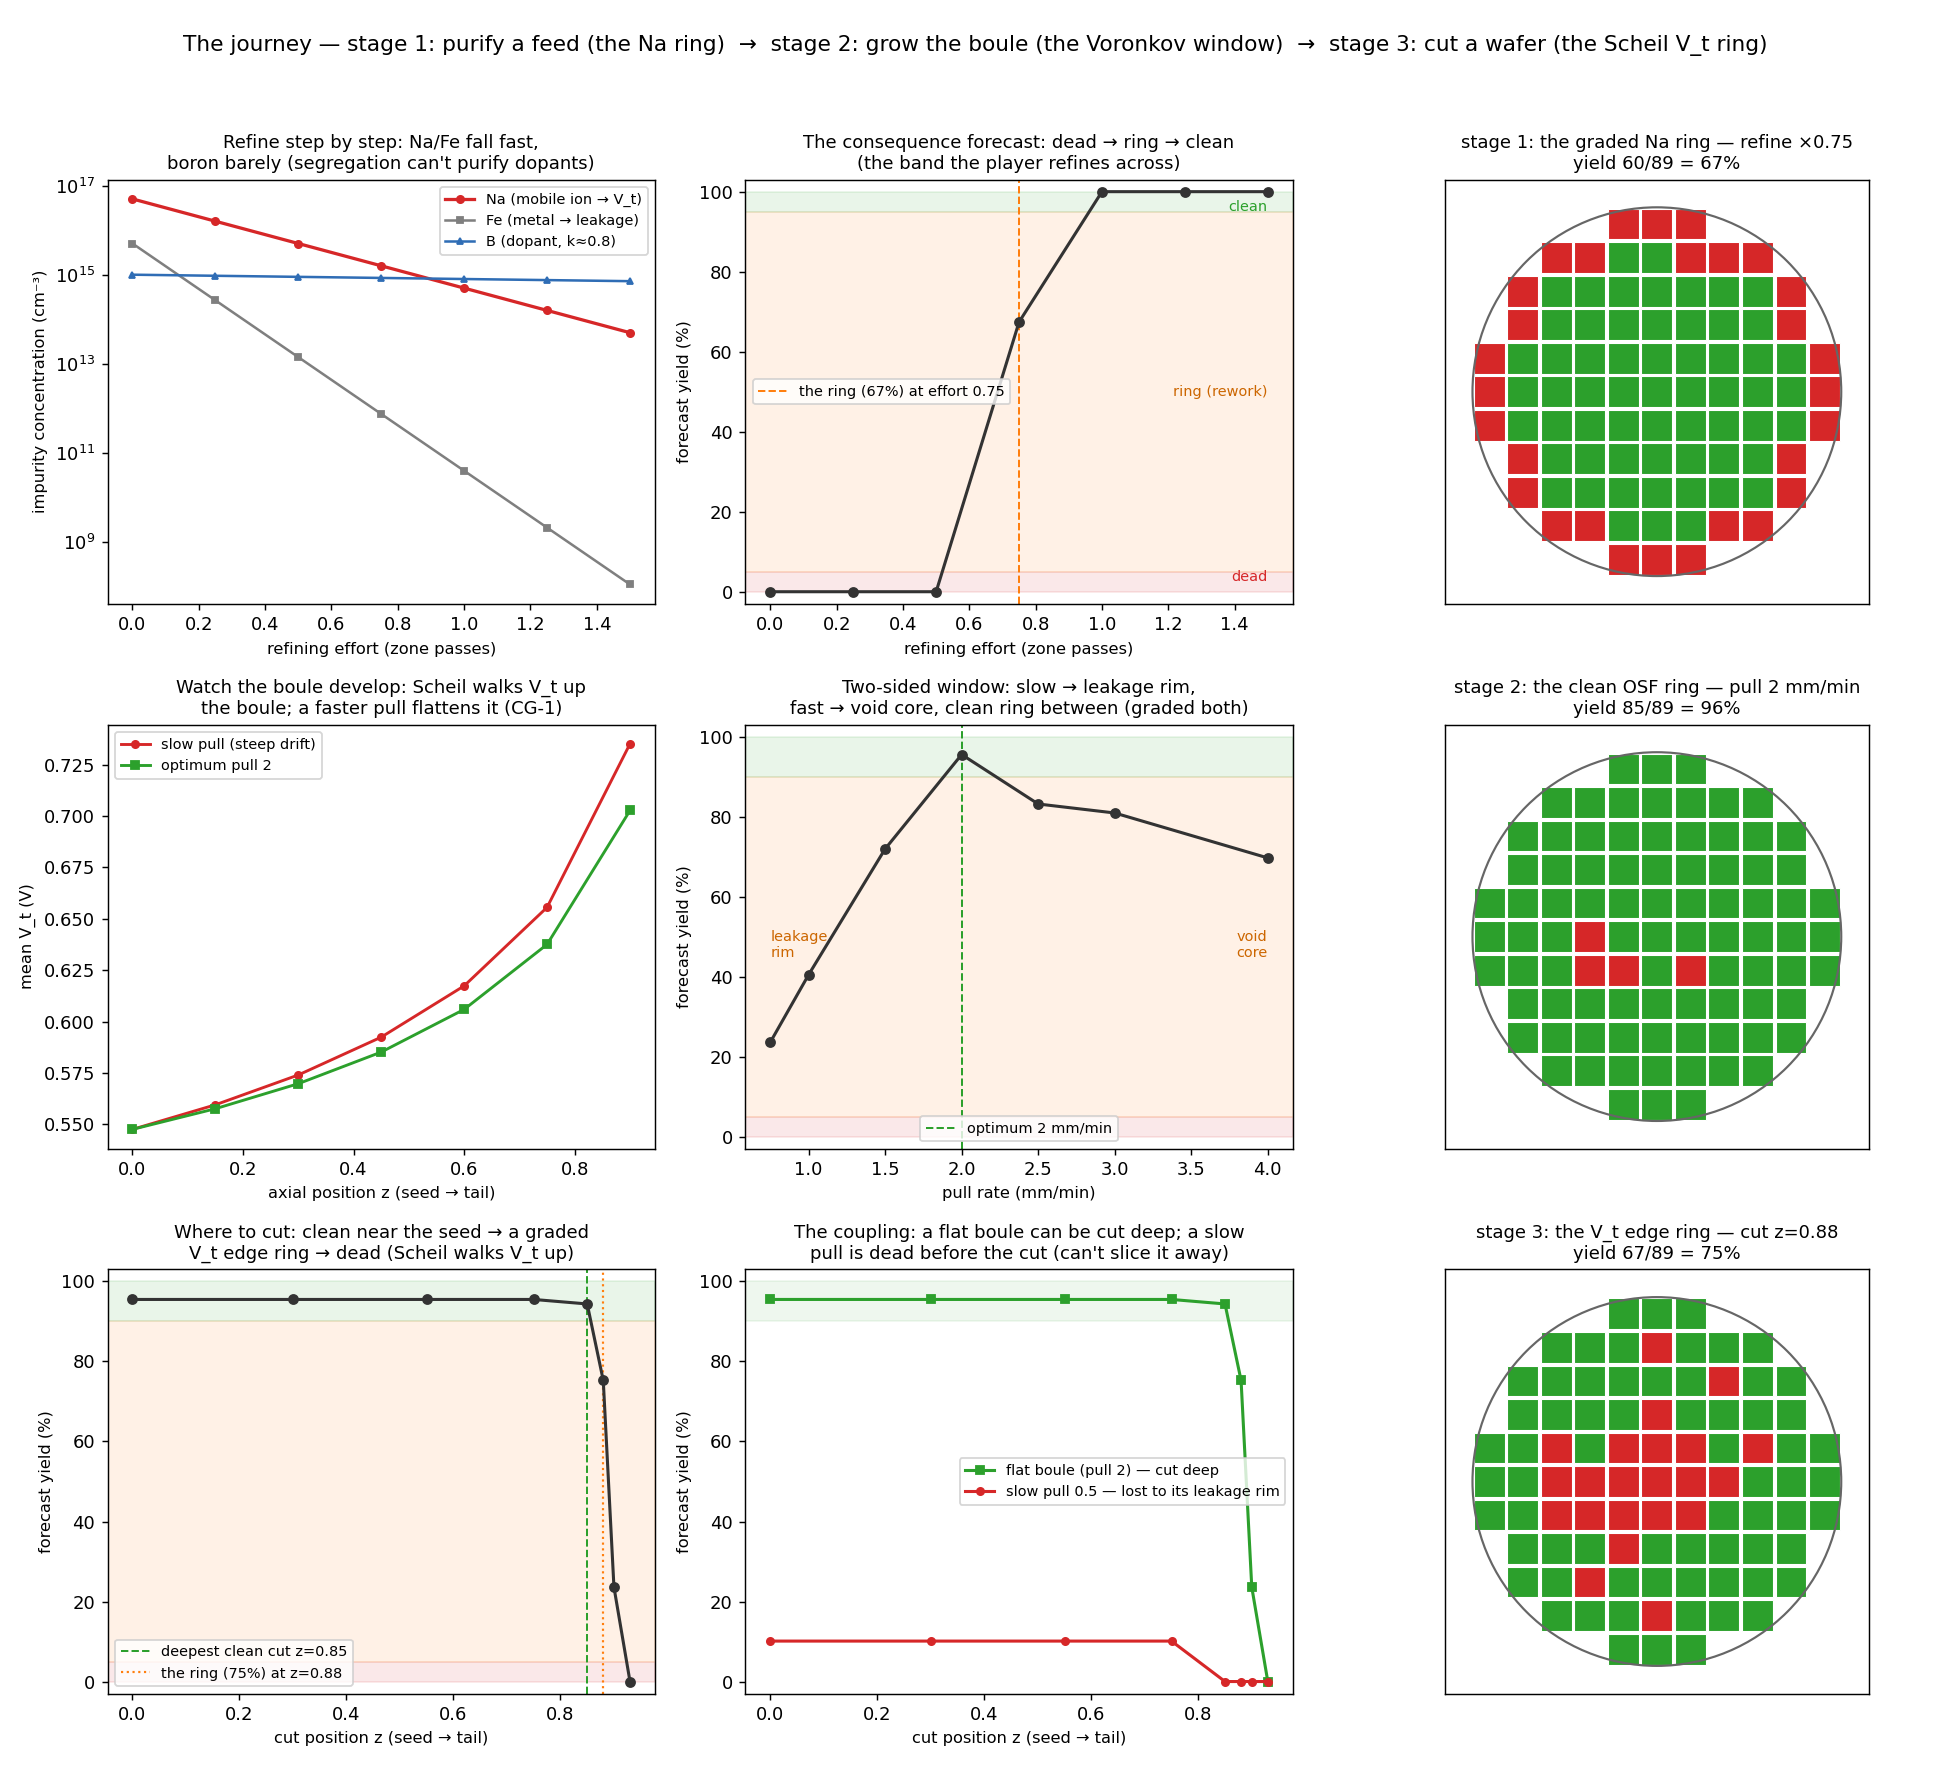
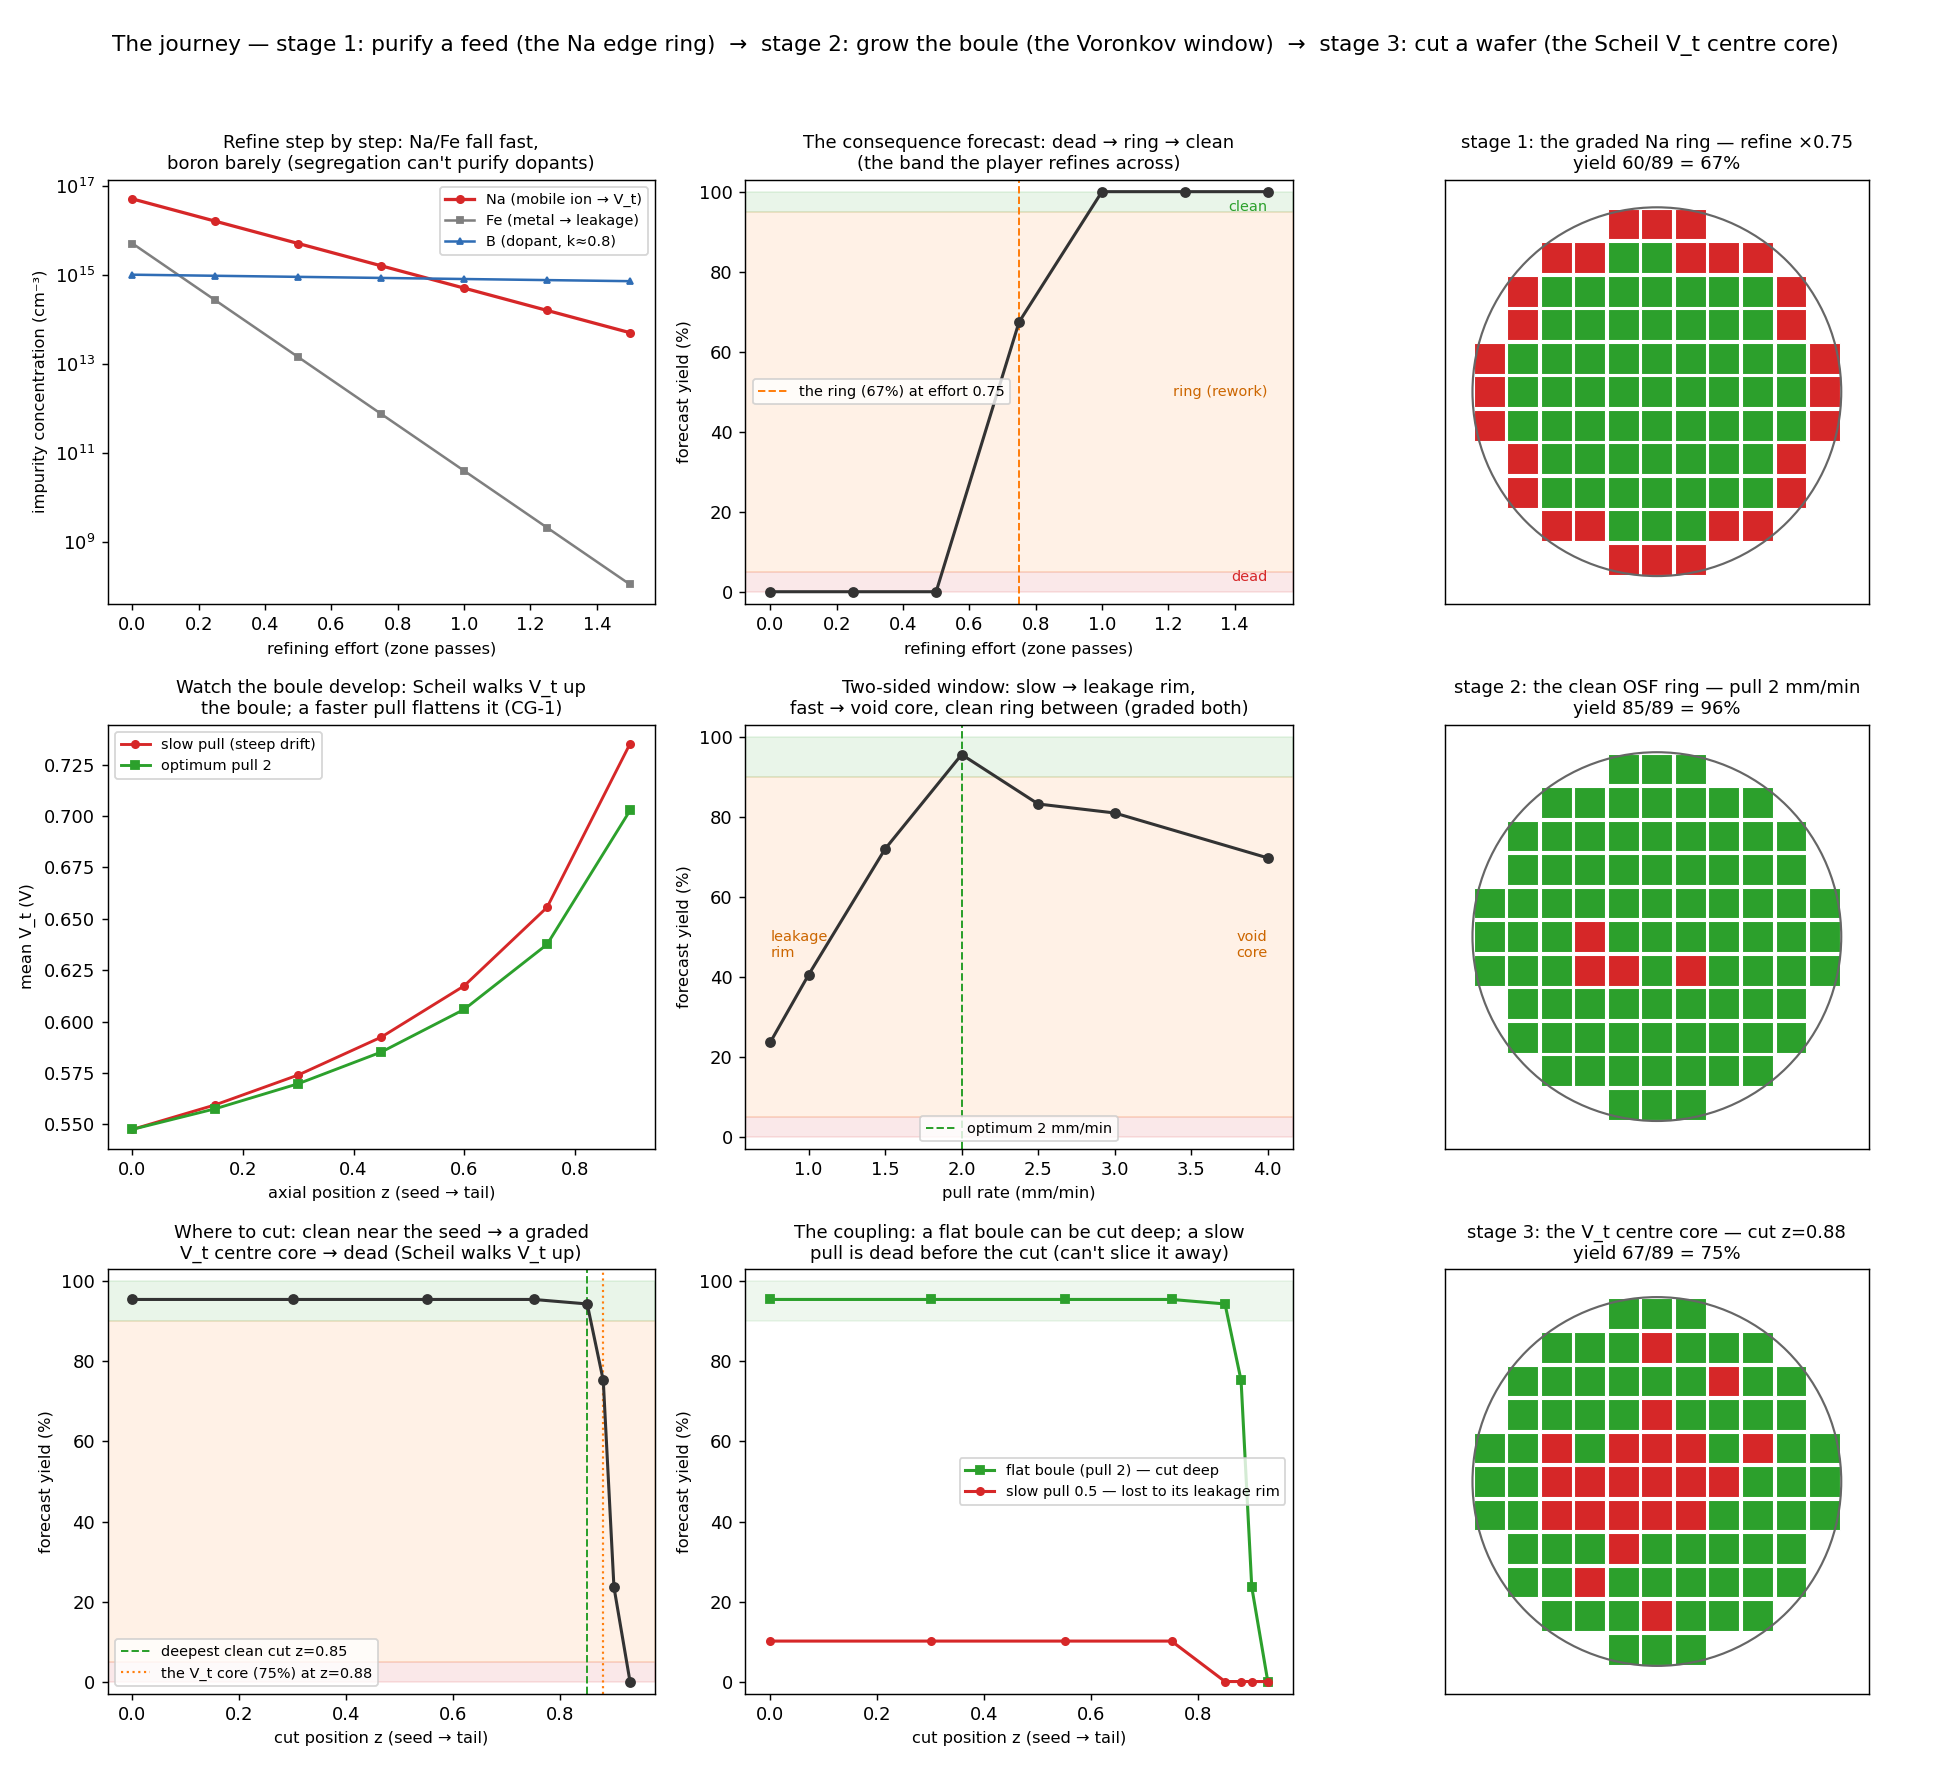
fix(fab_game): the slice consequence is a V_t centre core, not an edge ring
Advisor caught the radial direction backwards before push. The slice failure is
V_t-HIGH (deep cut -> high substrate N_A), and the only radial V_t handle on a
clean feed is the systematic t_ox edge trend (thinner edge oxide -> lower edge
V_t). So the CENTRE dies (nominal, highest V_t) cross the high ceiling first
while the rim survives longest -- a centre core, the inverse of stage-1's Na
edge ring (Na edge-loaded -> V_t-low -> the rim fails first).

Verified by the radial yield at the ring slice (0% centre -> 95% rim) and mean
V_t (0.688 V centre -> 0.670 V edge), not assumed. The grading, the channel
naming, the coupling, the tests and the seam are all unchanged and still correct
-- this is purely the spatial prose/labels (docstrings, the figure titles + the
wafer-map panel, the demo print, the forecast headline, the plan, the memory).
The figure now shows the red-centre/green-rim core, the inverse of stage-1's
red-rim ring.

diff --git a/docs/fab-game.html b/docs/fab-game.html
@@ -193,7 +193,7 @@ python -m fab_game.demo_fab_game   <span class="c"># prints the trail, banks doc
           </a>
           <div class="body">
             <span class="tag">J1</span>
-            <p class="blurb">The staged sand→chip journey (phases 1–3): purify a feed (refine → the graded Na ring), grow the boule (the two-sided Voronkov pull window — leakage rim ↔ void core), then cut a wafer (where down the boule — a graded Scheil V_t ring, how deep set by the phase-2 pull) — commit each decision and finish to a scored wafer.</p>
+            <p class="blurb">The staged sand→chip journey (phases 1–3): purify a feed (refine → the graded Na edge ring), grow the boule (the two-sided Voronkov pull window — leakage rim ↔ void core), then cut a wafer (where down the boule — a graded Scheil V_t centre core, how deep set by the phase-2 pull) — commit each decision and finish to a scored wafer.</p>
             <div class="links">
               <code>python -m fab_game.demo_journey</code>
               <a class="src" href="https://github.com/BoykoNeov/chip-sim/blob/main/fab_game/demo_journey.py">source&nbsp;&#8599;</a>

diff --git a/docs/fab-game.local.html b/docs/fab-game.local.html
@@ -194,7 +194,7 @@ python -m fab_game.demo_fab_game   <span class="c"># prints the trail, banks doc
           </a>
           <div class="body">
             <span class="tag">J1</span>
-            <p class="blurb">The staged sand→chip journey (phases 1–3): purify a feed (refine → the graded Na ring), grow the boule (the two-sided Voronkov pull window — leakage rim ↔ void core), then cut a wafer (where down the boule — a graded Scheil V_t ring, how deep set by the phase-2 pull) — commit each decision and finish to a scored wafer.</p>
+            <p class="blurb">The staged sand→chip journey (phases 1–3): purify a feed (refine → the graded Na edge ring), grow the boule (the two-sided Voronkov pull window — leakage rim ↔ void core), then cut a wafer (where down the boule — a graded Scheil V_t centre core, how deep set by the phase-2 pull) — commit each decision and finish to a scored wafer.</p>
             <div class="links">
               <code>python -m fab_game.demo_journey</code>
               <a class="src" href="http://localhost:8888/lab/tree/fab_game/demo_journey.py" target="_blank" rel="noopener">source&nbsp;&#8599;</a>

diff --git a/fab_game/journey.py b/fab_game/journey.py
@@ -65,8 +65,11 @@ DEFAULT_PULL_MM_MIN = 2.0        # the two-sided optimum at this hot zone (~93 %
 # solidified, ``czochralski.slice_z`` ∈ [0, 1)). It reads the boule's axial Scheil drift (G2): boron's
 # k<1 walks the substrate doping — so ``V_t`` — UP toward the tail, so a wafer cut too deep lands above
 # the ``V_t`` window. The consequence is graded (not a cliff): the radial t_ox non-uniformity already in
-# the line spreads ``V_t`` across the die map, so the outer dies cross the ceiling first → an **edge ring**
-# of ``V_t`` kills before the whole wafer goes out (the gradual-failure policy, no new physics). Honestly
+# the line spreads ``V_t`` across the die map — so the **centre** dies (nominal, highest ``V_t``) cross the
+# high ceiling first while the **rim** (thinner gate oxide → lower ``V_t``) survives longest → a **centre
+# core** of ``V_t`` kills before the whole wafer goes out. This is the *inverse* radial signature of stage-1's
+# Na **edge** ring (Na is edge-loaded and pushes ``V_t`` DOWN into the *low* bound, so the rim fails first;
+# here the high bound is hit centre-first) — the gradual-failure policy, no new physics. Honestly
 # **one-sided absent economics** — cutting at the seed (slice_z 0) is always safest; the value of cutting
 # deeper (more wafers per boule = throughput) is the same deferred cost side as purification's refining
 # effort. What makes the cut a real decision *today* is the phase-2 coupling: a faster pull flattens the
@@ -158,8 +161,9 @@ def forecast(state: "JourneyState") -> StageForecast:
     """Run the line at the current recipe (variation **on**, so the ring shows) → the consequence band.
 
     Reuses :func:`run_line` — zero new physics. Single seed (the journey's), like the dashboard; the bands
-    carry a margin so a boundary forecast does not flicker. ``clean`` ⇒ the feed is pure enough; ``ring`` ⇒
-    a marginal feed kills an edge ring (rework: refine harder); ``dead`` ⇒ scrapped."""
+    carry a margin so a boundary forecast does not flicker. ``clean`` ⇒ the recipe-so-far didn't bite;
+    ``ring`` ⇒ a marginal recipe kills **part** of the wafer (spatially an edge ring or a centre core,
+    depending on the stage — rework territory); ``dead`` ⇒ scrapped."""
     recipe = state.current_recipe
     wafer = run_line(recipe, seed=state.seed, variation=Variation(), specs=DEFAULT_SPECS, grid_n=state.grid_n)
     result = LineResult.of(state.label, wafer)
@@ -171,7 +175,7 @@ def forecast(state: "JourneyState") -> StageForecast:
     elif band == "dead":
         headline = f"DEAD — {y:.0%} yield, scrapped on {channel}"
     else:
-        headline = f"ring — {y:.0%} yield, an edge ring fails on {channel}"
+        headline = f"ring — {y:.0%} yield, part of the wafer fails on {channel}"
     return StageForecast(band=band, channel=channel, yield_=y, mean_vt=_mean_vt(result),
                          contamination=state.contamination.as_dict(), result=result, headline=headline)
 
@@ -301,9 +305,10 @@ class JourneyState:
 
         Reads the boule's axial Scheil drift (use :func:`boule_profile` to *watch it develop* first — the
         seed→tail ``V_t`` walk this cut samples): boron's k<1 raises the substrate doping (so ``V_t``)
-        toward the tail, so a wafer cut **too deep** lands above the ``V_t`` window — failing on the
-        edge dies first (a graded ``V_t`` ring, the radial t_ox non-uniformity grading the cliff), then the
-        whole wafer. Cutting at the **seed** (``slice_z`` 0) is always safest; how deep you can cut and stay
+        toward the tail, so a wafer cut **too deep** lands above the ``V_t`` window — failing the **centre**
+        dies first (a graded ``V_t`` **core**: the radial t_ox non-uniformity grades the cliff — the rim's
+        thinner oxide gives it a lower ``V_t``, so it survives the high ceiling longest), then the whole
+        wafer. Cutting at the **seed** (``slice_z`` 0) is always safest; how deep you can cut and stay
         in spec is set by the **phase-2 pull** (a faster pull flattened the drift — :func:`boule_profile`).
         Call again to re-cut (re-decide; the boule is unchanged, only where you take the wafer)."""
         if not 0.0 <= slice_z < 1.0:

diff --git a/fab_game/plots.py b/fab_game/plots.py
@@ -415,7 +415,7 @@ def _journey_growth_arc_panel(ax, result) -> None:
 
 
 def _journey_slice_arc_panel(ax, result) -> None:
-    """Forecast yield vs cut depth (axial z), banded — clean near the seed → a graded V_t edge ring → dead."""
+    """Forecast yield vs cut depth (axial z), banded — clean near the seed → a graded V_t centre core → dead."""
     z = list(result.slice_zs)
     y = [100.0 * v for v in result.slice_yields]
     ax.axhspan(0, 5, color="#d62728", alpha=0.10)
@@ -425,11 +425,11 @@ def _journey_slice_arc_panel(ax, result) -> None:
     ax.axvline(result.slice_commit_z, color="#2ca02c", ls="--", lw=1.1,
                label=f"deepest clean cut z={result.slice_commit_z:g}")
     ax.axvline(result.slice_ring_z, color="#ff7f0e", ls=":", lw=1.2,
-               label=f"the ring ({result.slice_ring_forecast.yield_:.0%}) at z={result.slice_ring_z:g}")
+               label=f"the V_t core ({result.slice_ring_forecast.yield_:.0%}) at z={result.slice_ring_z:g}")
     ax.set_xlabel("cut position z (seed → tail)", fontsize=9)
     ax.set_ylabel("forecast yield (%)", fontsize=9)
     ax.set_ylim(-3, 103)
-    ax.set_title("Where to cut: clean near the seed → a graded\nV_t edge ring → dead (Scheil walks V_t up)",
+    ax.set_title("Where to cut: clean near the seed → a graded\nV_t centre core → dead (Scheil walks V_t up)",
                  fontsize=10)
     ax.legend(fontsize=8, loc="lower left")
 
@@ -456,8 +456,8 @@ def journey_figure(result):
     Row 1 — **purification**: the refining scrub, the dead→ring→clean consequence arc, and the wafer map at
     the graded Na ring. Row 2 — **crystal growth**: the axial boule drift (CG-1 flattening), the two-sided
     Voronkov pull window (leakage rim ↔ void core), and the wafer map at the optimum (the clean OSF ring).
-    Row 3 — **slice/cut**: where-to-cut (clean → V_t edge ring → dead down the boule), the phase-2 coupling
-    (a flat boule cuts deep; a slow pull is dead before the cut), and the wafer map at the V_t edge ring.
+    Row 3 — **slice/cut**: where-to-cut (clean → V_t centre core → dead down the boule), the phase-2 coupling
+    (a flat boule cuts deep; a slow pull is dead before the cut), and the wafer map at the V_t centre core.
     """
     import matplotlib.pyplot as plt
 
@@ -473,9 +473,9 @@ def journey_figure(result):
     _journey_slice_arc_panel(axes[2][0], result)
     _journey_coupling_panel(axes[2][1], result)
     _wafer_map(axes[2][2], result.slice_ring_forecast.result.wafer,
-               f"stage 3: the V_t edge ring — cut z={result.slice_ring_z:g}")
-    fig.suptitle("The journey — stage 1: purify a feed (the Na ring)  →  stage 2: grow the boule "
-                 "(the Voronkov window)  →  stage 3: cut a wafer (the Scheil V_t ring)", fontsize=12)
+               f"stage 3: the V_t centre core — cut z={result.slice_ring_z:g}")
+    fig.suptitle("The journey — stage 1: purify a feed (the Na edge ring)  →  stage 2: grow the boule "
+                 "(the Voronkov window)  →  stage 3: cut a wafer (the Scheil V_t centre core)", fontsize=12)
     fig.tight_layout(rect=(0, 0, 1, 0.96))
     return fig
 

diff --git a/fab_game/demo_journey.py b/fab_game/demo_journey.py
@@ -17,8 +17,10 @@ axial ``V_t`` drift (Scheil) **flattens** as the pull speeds up (CG-1).
 
 **Stage 3 — slice/cut.** On the committed boule, choose **where down it to cut** this wafer. The cut reads
 the boule's axial Scheil drift (stage 2): boron's k<1 walks ``V_t`` up toward the tail, so a wafer cut too
-deep lands above spec — failing the outer dies first (a graded ``V_t`` edge **ring**, the radial t_ox
-non-uniformity grading the cliff), then the whole wafer. It is the first stage that **reads a prior
+deep lands above spec — failing the **centre** dies first (a graded ``V_t`` **core**: the radial t_ox
+non-uniformity grades the cliff, the rim's thinner oxide gives it a lower ``V_t`` so it survives the high
+ceiling longest — the *inverse* of stage-1's Na edge ring), then the whole wafer. It is the first stage
+that **reads a prior
 committed decision** — the **coupling**: a flat boule (fast phase-2 pull) can be cut **deep** and stay in
 spec, while a slow-pulled boule is already lost to its dislocation leakage rim *before* the cut, so cut
 depth can't rescue it. Cutting at the seed is always safest; "use more of the boule" is the same deferred
@@ -99,7 +101,7 @@ class JourneyDemoResult:
     slice_bands: tuple[str, ...]
     slice_channels: tuple
     slice_arc: tuple[StageForecast, ...]
-    slice_ring_z: float                     # the marginal (ring-band) cut — the V_t edge ring for the map
+    slice_ring_z: float                     # the marginal (ring-band) cut — the V_t centre core for the map
     slice_ring_forecast: StageForecast
     slice_commit_z: float                   # the deepest clean cut — "use as much boule as spec allows"
     slice_yields_slow: tuple[float, ...]    # the SAME cut sweep on a slow-pulled boule (already lost to its rim)
@@ -215,8 +217,9 @@ def print_summary(r: JourneyDemoResult) -> None:
     print(f"     {'cut z':>5}  {'yield':>6}  {'band':<5}  channel")
     for z, f in zip(r.slice_zs, r.slice_arc):
         print(f"     {z:5.2f}  {f.yield_:6.0%}  {f.band:<5}  {f.channel or '—'}")
-    print(f"  → clean near the seed; cut past z≈{r.slice_ring_z:g} → a graded V_t edge RING "
-          f"({r.slice_ring_forecast.yield_:.0%}; the outer dies cross the ceiling first) → dead at the tail.")
+    print(f"  → clean near the seed; cut past z≈{r.slice_ring_z:g} → a graded V_t CORE "
+          f"({r.slice_ring_forecast.yield_:.0%}; the centre dies cross the high ceiling first, the rim's "
+          f"thinner oxide survives) → dead at the tail.")
     print(f"    The decision is set by the phase-2 pull (the COUPLING): a flat boule (fast pull) can be cut")
     print(f"    deep — at z={r.slice_commit_z:g} the optimum pull yields "
           f"{r.slice_yields[r.slice_zs.index(r.slice_commit_z)]:.0%} but a slow pull only "

diff --git a/fab_game/tests/test_journey.py b/fab_game/tests/test_journey.py
@@ -230,13 +230,15 @@ def test_cut_sets_the_slice_position_and_composes_with_the_growth_overlay():
 
 def test_slice_window_is_graded_clean_to_ring_to_dead_down_the_boule():
     """THE policy check (gradual-failure): cutting near the seed is clean, cutting deeper walks through a
-    **graded** V_t edge ring (the radial t_ox non-uniformity grades the cliff — the outer dies cross the
-    spec ceiling first), then dead at the tail. Not an all-or-nothing flip."""
+    **graded** V_t centre core (the radial t_ox non-uniformity grades the cliff — the centre dies, highest
+    V_t, cross the spec ceiling first; the rim's thinner oxide → lower V_t survives longest), then dead at
+    the tail. Not an all-or-nothing flip. (The ``"ring"`` band token is the generic ok→rework→fail middle
+    band — for the *cut* that band is spatially a centre core, not an edge ring; cf. stage-1's Na rim.)"""
     clean = forecast(_grown_cut(2.0, 0.75))
     ring = forecast(_grown_cut(2.0, 0.88))
     dead = forecast(_grown_cut(2.0, 0.93))
     assert clean.band == "clean"
-    assert ring.band == "ring" and 0.0 < ring.yield_ < clean.yield_   # a partial edge ring (rework territory)
+    assert ring.band == "ring" and 0.0 < ring.yield_ < clean.yield_   # a partial centre core (rework territory)
     assert dead.band == "dead" and dead.yield_ < ring.yield_
 
 

diff --git a/fab_game/tests/test_demo_journey.py b/fab_game/tests/test_demo_journey.py
@@ -57,11 +57,12 @@ def test_demo_boule_drift_flattens_with_a_faster_pull(result):
 
 
 # --------------------------------------------------------------------------- #
-# Stage 3 — slice/cut (the graded V_t ring down the boule + the phase-2 coupling)
+# Stage 3 — slice/cut (the graded V_t centre core down the boule + the phase-2 coupling)
 # --------------------------------------------------------------------------- #
 def test_demo_slice_arc_walks_clean_to_ring_to_dead_down_the_boule(result):
-    """Cutting near the seed is clean; cutting deeper walks a *graded* V_t edge ring (the outer dies cross
-    the spec ceiling first), then dead at the tail — failing on the named Scheil-drift channel."""
+    """Cutting near the seed is clean; cutting deeper walks a *graded* V_t centre core (the centre dies, the
+    highest V_t, cross the spec ceiling first), then dead at the tail — failing on the named Scheil-drift
+    channel."""
     assert result.slice_bands[0] == "clean"                 # the seed end: in spec
     assert "ring" in result.slice_bands                     # a graded ring band exists (the rework signal)
     assert result.slice_bands[-1] == "dead"                 # the tail: Scheil-walked V_t out of spec

diff --git a/fab_game/gallery.py b/fab_game/gallery.py
@@ -80,9 +80,9 @@ LINE = [
          "A roguelike run down one boule: thin the gate oxide against the rising Scheil V_t drift — a "
          "Goldilocks lever (over-thinning hits the I_Dsat ceiling)."),
     Demo("demo_journey", "J1",
-         "The staged sand→chip journey (phases 1–3): purify a feed (refine → the graded Na ring), grow the "
+         "The staged sand→chip journey (phases 1–3): purify a feed (refine → the graded Na edge ring), grow the "
          "boule (the two-sided Voronkov pull window — leakage rim ↔ void core), then cut a wafer (where down "
-         "the boule — a graded Scheil V_t ring, how deep set by the phase-2 pull) — commit each decision and "
+         "the boule — a graded Scheil V_t centre core, how deep set by the phase-2 pull) — commit each decision and "
          "finish to a scored wafer."),
 ]
 

diff --git a/docs/plans/fab-journey.md b/docs/plans/fab-journey.md
@@ -43,7 +43,7 @@ built when it has a consumer (the repo's anti-over-build rule, `scope-edge-backl
 |------|-------|--------|-----------------|
 | **1** | **Purification** | **BUILT** | refine a dirty feed; the edge-loaded Na ring is the graded consequence |
 | **2** | **Crystal growth (Czochralski)** | **BUILT** | set the boule pull rate at a radial hot zone — the two-sided Voronkov window (slow → dislocation leakage rim, fast → void core, clean OSF ring between), graded both ways; the axial Scheil drift flattens with a faster pull (CG-1) |
-| **3** | **Wafer prep — slice/cut** | **BUILT** | where down the boule to cut this wafer — it reads the axial Scheil drift (cut too deep → a graded V_t edge ring → dead), and how deep you can cut is set by the **phase-2 pull** (the first stage coupled to a prior decision). Polish/flatness/killer-defect deferred (TTV→defocus is a named scope edge) |
+| **3** | **Wafer prep — slice/cut** | **BUILT** | where down the boule to cut this wafer — it reads the axial Scheil drift (cut too deep → a graded V_t **centre core** → dead), and how deep you can cut is set by the **phase-2 pull** (the first stage coupled to a prior decision). Polish/flatness/killer-defect deferred (TTV→defocus is a named scope edge) |
 | 4 | Diffusion | stub | dose/temperature/time → junction depth + sheet resistance |
 | 5 | Oxidation | stub | ambient/T/time → gate oxide; the thin-oxide V_t lever |
 | 6 | Lithography | stub | focus/dose → the CD/NILS edge ring (the G1 dramatic knob) |
@@ -113,9 +113,12 @@ committed decision** — the journey's "watch the consequence propagate" payoff,
   doping — so `V_t` — *up* toward the tail (`boule_profile` is the *watch-it-develop* view of exactly this
   profile). Cut too deep and the wafer lands above the `V_t` window.
 - The consequence is **graded, not a cliff** (the gradual-failure policy, **zero new physics**): the radial
-  `t_ox` non-uniformity already in the line spreads `V_t` across the die map, so the **outer dies cross the
-  ceiling first** → a `V_t` **edge ring** before the whole wafer goes out. The arc walks **clean** (near the
-  seed) → a graded **ring** (~z 0.87–0.90) → **dead** (the tail).
+  `t_ox` non-uniformity already in the line spreads `V_t` across the die map, so the **centre dies (nominal,
+  highest `V_t`) cross the high ceiling first** while the **rim** (thinner gate oxide → lower `V_t`) survives
+  longest → a `V_t` **centre core** before the whole wafer goes out. This is the *inverse* radial signature
+  of stage-1's Na **edge** ring (Na is edge-loaded and pushes `V_t` *down* into the low bound, so the rim
+  fails first; here the high bound is hit centre-first — a nice two-V_t-failure contrast). The arc walks
+  **clean** (near the seed) → a graded middle band (~z 0.87–0.90) → **dead** (the tail).
 - **The coupling (the headline):** how deep you can cut and stay in spec is set by the **phase-2 pull**. A
   *faster* pull flattened the drift (CG-1), so a **flat boule can be cut deep**; a *slow*-pulled boule is
   already lost to its interstitial **dislocation leakage rim** (A1) *before* the cut, so cut depth can't
@@ -137,7 +140,7 @@ phase-2 coupling, not a price — the economics is named, not faked (no manufact
 seed, which would be the `gradual-failure-preferred` "inflate an unrelated variable" fudge).
 
 `demo_journey.py` is now a **three-stage** playthrough (a 3×3 figure: the slice-arc, the coupling, and the
-`V_t` edge-ring wafer map join the purification + growth rows); `test_journey.py` pins the graded ring, the
+`V_t` centre-core wafer map join the purification + growth rows); `test_journey.py` pins the graded core, the
 coupling, the channel naming, and the no-cut **seam** (an explicit `cut(0)` reproduces the no-cut forecast).
 
 ## Deferred (explicit)

diff --git a/memory/fab-journey.md b/memory/fab-journey.md
@@ -61,8 +61,12 @@ schedule (variable-k Scheil = new physics); C1/CG-3 (standalone deepenings).
 stage that READS a prior committed decision** — the journey's "watch it propagate" payoff, finally end to
 end. The cut reads the boule's axial **Scheil drift** (`boule_profile` = the watch-it-develop view): boron
 `k<1` walks `V_t` UP toward the tail → cut too deep → above the `V_t` window. **Graded, NOT a cliff, with
-ZERO new physics:** the *existing* radial `t_ox` non-uniformity spreads `V_t` across the map so the OUTER
-dies cross the ceiling first → a `V_t` edge **ring** (arc clean → ring ~z 0.87–0.90 → dead at the tail).
+ZERO new physics:** the *existing* radial `t_ox` non-uniformity spreads `V_t` across the map so the CENTRE
+dies (nominal, highest `V_t`) cross the high ceiling first while the RIM (thinner oxide → lower `V_t`)
+survives longest → a `V_t` **centre CORE** (arc clean → middle band ~z 0.87–0.90 → dead at the tail). **THE
+finding (advisor caught my prose backwards before push):** it is a centre core, NOT an edge ring — the
+*inverse* radial signature of stage-1's Na edge ring (Na edge-loaded, pushes `V_t` DOWN→low bound→rim
+first; here the HIGH bound is hit centre-first). Verified by radial yield (0%→95% centre→rim) not assumed.
 **THE coupling (the headline test `test_slice_consequence_is_coupled_to_the_phase2_pull`):** how deep you
 can cut is set by the **phase-2 pull** — a fast pull flattened the drift (CG-1) so a flat boule cuts DEEP;
 a slow pull already lost the wafer to its A1 dislocation **leakage rim** BEFORE the cut → "a bad pull can't
@@ -74,7 +78,7 @@ flatness is a binary scrap and **TTV→focus-budget is a named scope edge** (new
 One-sided absent economics (→ the #1 open item, now shared). No-cut **seam** proven (`cut(0)` ≡ no-cut
 forecast). The stale commit-docstring "third stage = refactor" note UPDATED (the overlay holds for 3
 idempotent stages; refactor tips only at order-dependent/non-idempotent folding). `demo_journey` now a
-THREE-stage playthrough (**3×3** figure: slice-arc + the coupling + the `V_t` edge-ring map join the rows);
+THREE-stage playthrough (**3×3** figure: slice-arc + the coupling + the `V_t` centre-core map join the rows);
 **299 fab_game tests green** (+9: graded ring, coupling, channel, commit-fold, range guard, seam).
 **Deferred:** the across-wafer/polish handoff + the killer-defect map (wafer-prep's other half).
 

diff --git a/memory/MEMORY.md b/memory/MEMORY.md
@@ -11,7 +11,7 @@ One line per memory: a hook for relevance triage — the full detail lives in ea
 - [Engine unfrozen](engine-unfrozen.md) — **project (2026-06-10 → framing RETIRED 2026-06-14 `2a8b74e`):** `engines.diffusion` UNFROZEN → governance open + test-gated (ADR 0004); the "fit WITHIN the frozen engine" reflex is now lineage. Three additive amendments landed (prior invariants unmodified): v1.5 native nonlinear `D(u)` (Picard), v1.6 explicit `forward_euler` θ=0, v1.8 2-D. **3-D = the only remaining deferred regime.** **2026-06-14: the whole contract/seal/invariant framing DROPPED → plain tested library** (suite still gates, ceremony gone); `CONTRACT.md` kept at path + retitled "reference", ADR 0004 got a dated `## Follow-up` trace, consumer/historical narratives left intact.
 - [Engine explicit stepping v1.6](engine-explicit-stepping-v16.md) — **project (2026-06-11):** explicit `forward_euler` (θ=0) BUILT — falls out of the θ-method (only `_METHODS` lacked it); the real content is the new conditional-CFL invariant (`dt_crit=1/max|diagᵢ|`, NOT textbook `Δx²/2D`). Additive, 28 invariants unmodified. Advisor: build explicit NOT 2-D (anti-over-build).
 - [Commit at end of batch](commit-at-end-of-batch.md) — **feedback (2026-06-10):** always commit AND **push** at the end of a work batch without being asked; chip-sim commits direct to `main` → `git push origin main` (solo repo, no PR flow). Conventional message + Co-Authored-By, fast lane green first; PRs still ask-first.
-- [Fab journey](fab-journey.md) — **project (2026-06-14):** the staged **sand→chip journey** front-end (sibling to `game.py`/`dashboard`) — build ONE recipe **stage by stage**, a decision + consequence per stage. Plan `docs/plans/fab-journey.md` (four-beat: decide→observe→forecast→commit; thin scaffold, NOT a 9-stage machine). **Phase 1 (purification) BUILT:** continuous refining lever → the Na ring. **Phase 2 (crystal growth) BUILT:** `grow(pull_rate)` on a RADIAL hot zone — two-sided Voronkov window (slow=dislocation leakage rim, fast=void core, clean OSF ring), graded BOTH sides (the radial profile grades the slow-side leakage CLIFF the uniform model gives — user-approved vs [[gradual-failure-preferred]]); caps ~96% → `CLEAN_BAND`→0.90, `DEFAULT_GRID_N`→11; `boule_profile`=CG-1 drift. **Phase 3 (slice/cut) BUILT (broaden):** `cut(slice_z)` = where down the boule to cut — the FIRST stage reading a prior committed decision. Scheil drift walks `V_t` UP→ cut too deep → above spec; GRADED (zero new physics — existing radial `t_ox` non-uniformity → outer dies cross first → `V_t` edge RING). **THE coupling:** how deep you can cut is set by the **phase-2 pull** (fast=flat boule cuts deep; slow=lost to its A1 leakage rim before the cut). Honest scope: the CUT only — polish/flatness/defect at defaults (TTV→focus = named scope edge); one-sided absent economics (→ #1 open item). demo_journey now 3-stage (3×3 fig), **299 fab_game tests**. **#1 open item (deferred, NAMED) — now shared by TWO stages (purification + slice/cut):** the **cost side** (grade/per-pass price + per-wafer-vs-throughput) — growth is the no-economics exception. [[gradual-failure-preferred]] [[fab-game]]
+- [Fab journey](fab-journey.md) — **project (2026-06-14):** the staged **sand→chip journey** front-end (sibling to `game.py`/`dashboard`) — build ONE recipe **stage by stage**, a decision + consequence per stage. Plan `docs/plans/fab-journey.md` (four-beat: decide→observe→forecast→commit; thin scaffold, NOT a 9-stage machine). **Phase 1 (purification) BUILT:** continuous refining lever → the Na ring. **Phase 2 (crystal growth) BUILT:** `grow(pull_rate)` on a RADIAL hot zone — two-sided Voronkov window (slow=dislocation leakage rim, fast=void core, clean OSF ring), graded BOTH sides (the radial profile grades the slow-side leakage CLIFF the uniform model gives — user-approved vs [[gradual-failure-preferred]]); caps ~96% → `CLEAN_BAND`→0.90, `DEFAULT_GRID_N`→11; `boule_profile`=CG-1 drift. **Phase 3 (slice/cut) BUILT (broaden):** `cut(slice_z)` = where down the boule to cut — the FIRST stage reading a prior committed decision. Scheil drift walks `V_t` UP→ cut too deep → above spec; GRADED (zero new physics — existing radial `t_ox` non-uniformity → CENTRE dies cross the high ceiling first → `V_t` centre CORE, NOT an edge ring — the inverse of stage-1's Na rim; advisor caught the prose backwards pre-push, verified by radial yield). **THE coupling:** how deep you can cut is set by the **phase-2 pull** (fast=flat boule cuts deep; slow=lost to its A1 leakage rim before the cut). Honest scope: the CUT only — polish/flatness/defect at defaults (TTV→focus = named scope edge); one-sided absent economics (→ #1 open item). demo_journey now 3-stage (3×3 fig), **299 fab_game tests**. **#1 open item (deferred, NAMED) — now shared by TWO stages (purification + slice/cut):** the **cost side** (grade/per-pass price + per-wafer-vs-throughput) — growth is the no-economics exception. [[gradual-failure-preferred]] [[fab-game]]
 - [Gradual failure preferred](gradual-failure-preferred.md) — **feedback (2026-06-14):** model **graded/gradual failure over cliff** whenever physically realistic (the full ok→rework→fail spectrum, not a coin flip). Honest move = spatial non-uniformity of the offending quantity (often lifts a named scope edge); the fudge = inflating an unrelated variable past its real value. **1st application BUILT:** purification's Na→V_t cliff → an **edge-loaded Na ring** (`Variation.na_factor=1+2.5·r²`, flagged ~3.5× rim) + a **continuous refining lever** (`zone_passes`→float, `k^n` smooth) so a *modest* rim suffices (avoided the 10× fudge); `test_na_ring.py`. Mechanism only — no player stage yet. [[fab-game]] [[scope-edge-backlog]]
 - [Chip coupling v1.2](chip-coupling-v12.md) — Microchip v1.2 Phase 1↔2 back-coupling (OED + dopant segregation) BUILT — both fit WITHIN the engine (OED=`D(t)`; segregation=`Neumann(flux(t))`). Swept-sliver edge RETIRED via a consumer-side **receding mesh** (`moving_boundary=True`, engine untouched, no ADR). [[oed-source]] [[dopant-segregation-source]]
 - [Chip high-conc D(N) v1.3](chip-highconc-v13.md) — Microchip v1.3 conc-dependent diffusivity `D(N)` (high-conc box) BUILT — numerics SUPERSEDED by v1.5's native `D(u)` (Picard); physics/demo numbers stay. Cited **Fair charge-state** `D⁰+D⁻(n/nᵢ)+D⁼(n/nᵢ)²`; full-activation cap → physical ×42. [[dopant-charge-state-diffusivity-source]]